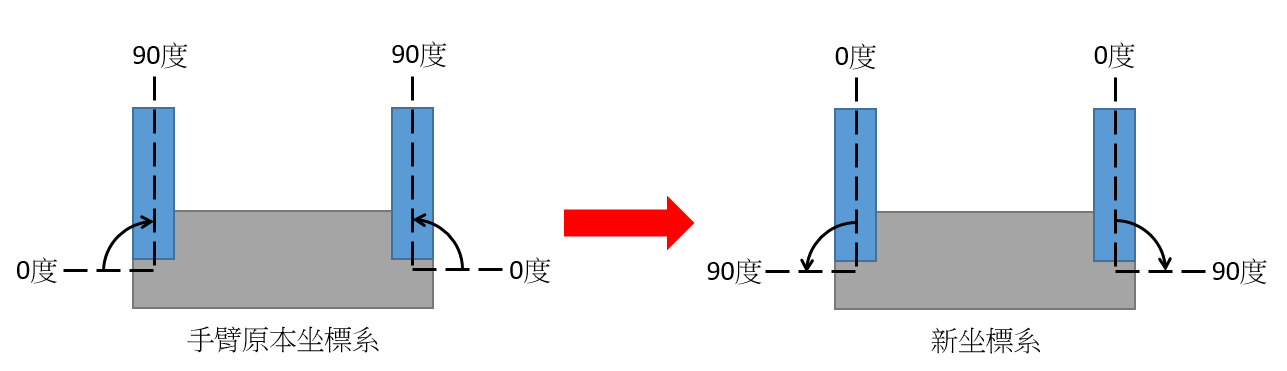
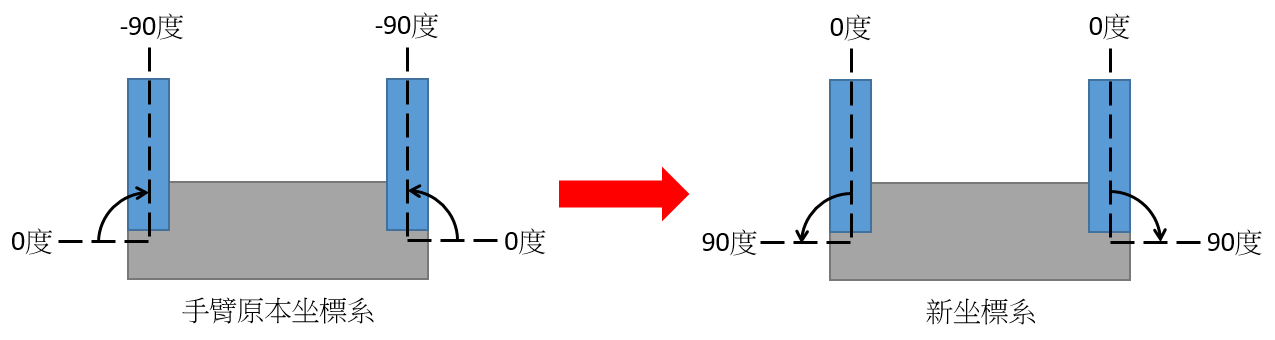
Fix image coord, update doc

diff --git a/README.md b/README.md
@@ -4,6 +4,14 @@ This document describes the hardware configuration and basic operation of the ro
 
 > Recommand to read [ROS Tutorials](http://wiki.ros.org/ROS/Tutorials) chapter 1 before read this document
 
+- Index of the documentation
+  - Hardware
+  - [Udoo Environment Setup](udoo_setup.md)
+  - Start Up
+  - Basic Operation
+  - [Development](development.md)
+  - [Stair Climbing](stair_climbing.md)
+
 ## Hardware
 ![Hardware](image/220548.jpg)
 &uarr; Internal overview
@@ -22,6 +30,10 @@ This document describes the hardware configuration and basic operation of the ro
     - It connect to Udoo via a micro USB
 
     <img src="image/220636.jpg" width=150/>
+
+    - 如果需要拆卸馬達, 下圖紅線部分務必對齊, 否則馬達基準點會跑掉
+
+    <img src="image/dy_red.jpg" width=150/>
 
 - Track motor
     - There are total four motors, two controls arm (arm motors), 2 controls moving (moving motors)
@@ -49,14 +61,14 @@ This document describes the hardware configuration and basic operation of the ro
 - For TX2, AP
 
 > **NOTE**
-> - 12V, 24V有專用充電器, 平均充2小時就會滿 (有指示燈), 兩個充電器皆無充滿自動斷電功能，所以盡量不要充過夜
+> - There are 2 chargers, one for 12V and one for 24V. It cost about 2 hours to charge full. These chargers will keep charging after the battery is full, so do not overcharge.
 >
 > <img src="image/220827.jpg" width=400/> <img src="image/220818.jpg" width=400/>
 >
 > 12V charger need the adapter (the same as the adapter for dynamixel) to connect to the battery
 
-## Environment Setup
-For Udoo, See [udoo_setup](udoo_setup.md)
+## Udoo Environment Setup
+See [udoo_setup](udoo_setup.md)
 
 ## Start Up
 ### 1. Connect wires for track motors

diff --git a/development.md b/development.md
@@ -131,6 +131,7 @@ pub.publish(leg_motion);  // send the command
 #### leg_speed
 - Control the speed of arm up/down
 - default: 1000
+  - at speed 1000, it costs about 12 seconds to raise up 90 degrees
 - do not set too fast
 ```c++
 // example
